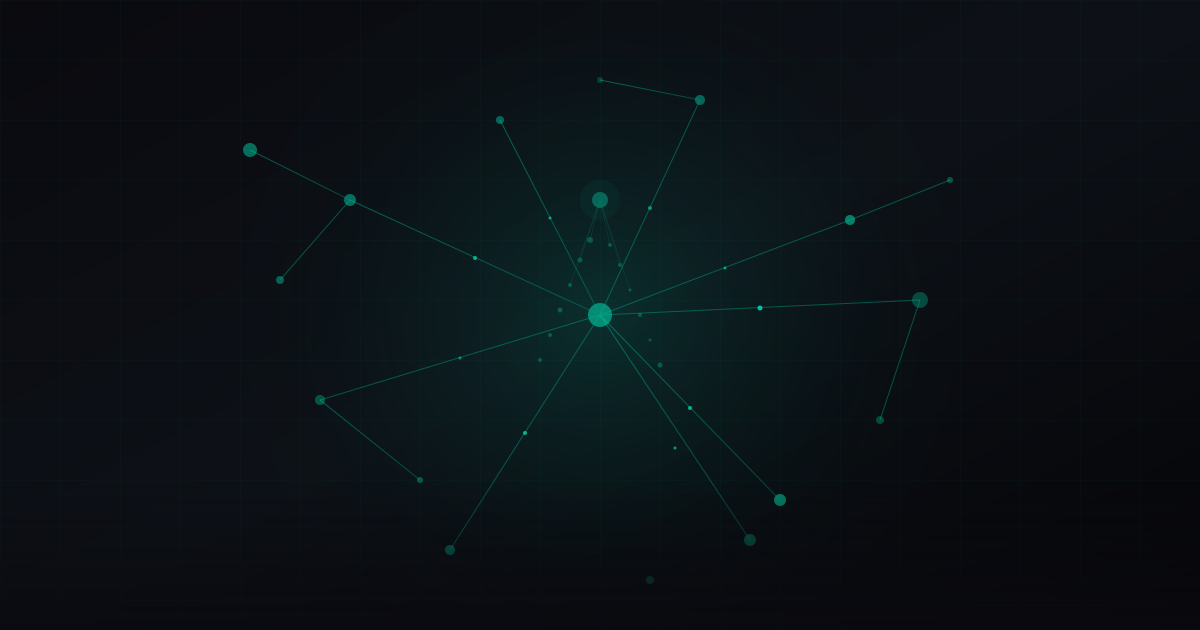
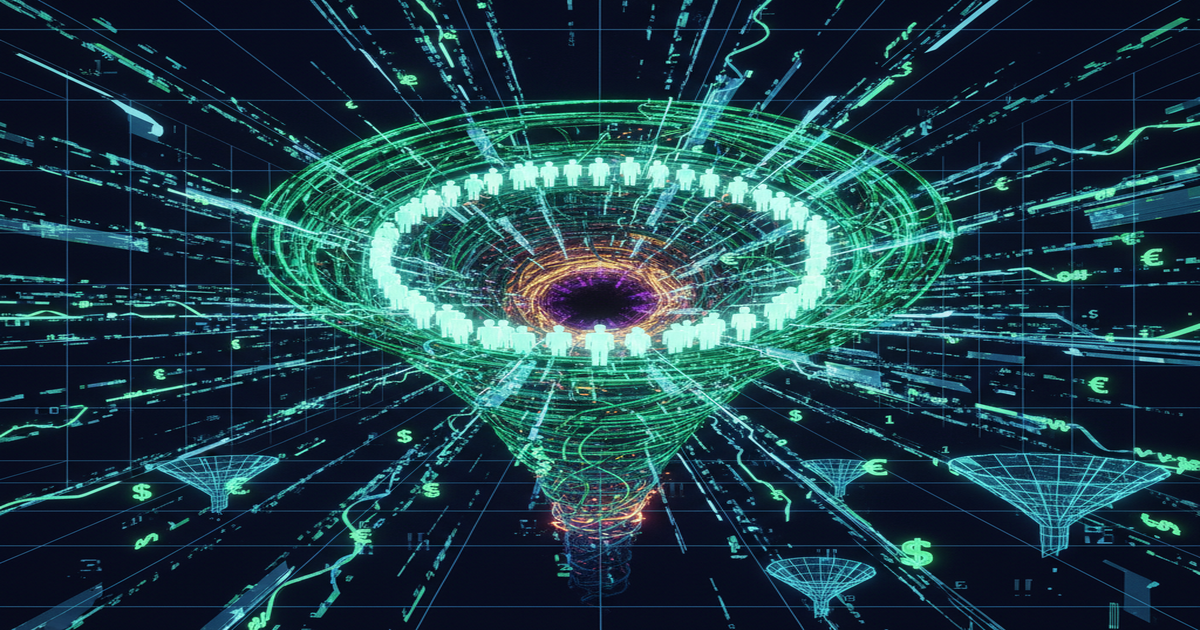
feat: regenerate cover for 'Арбитраж внимания' article + fix image-gen model
- Replace minimalist network graph with cyberpunk vortex funnel:
  emerald neural pathways pulling human silhouettes into a black hole
  of profit, cold neon blue grid, dollar/euro symbols, conversion funnels.
- Image dimensions 1200x630 (matches previous /blog/...-cover.jpg layout).
- Fix image-gen.ts: read OPENROUTER_IMAGE_MODEL from env instead of
  hardcoded google/gemini-3.1-flash-image-preview. Default falls back
  to google/gemini-2.5-flash-image (cheapest stable option, ~$0.0000003/img).
- Note: 'sourceful/riverflow-v2.5-pro:free' model does NOT exist on
  OpenRouter (no sourceful models in catalog). Migrating to gemini-flash-image.

diff --git a/src/lib/image-gen.ts b/src/lib/image-gen.ts
@@ -2,14 +2,19 @@ import fs from "node:fs/promises";
 import path from "node:path";
 
 /**
- * Генерация обложки через OpenRouter (модель google/gemini-3.1-flash-image-preview,
- * a.k.a. Nano Banana 2).
+ * Генерация обложки через OpenRouter.
+ *
+ * Модель берётся из env `OPENROUTER_IMAGE_MODEL` (дефолт:
+ * `sourceful/riverflow-v2.5-pro:free`). Зафиксировано по решению
+ * владельца проекта, чтобы обложки сайта и любые ad-hoc генерации
+ * в чат-боте шли через одну и ту же модель.
  *
  * Возвращает публичный URL (относительный) сохранённой обложки.
  * Если OPENROUTER_API_KEY не задан — бросает ошибку.
  */
 const OPENROUTER_ENDPOINT = "https://openrouter.ai/api/v1/chat/completions";
-const IMAGE_MODEL = "google/gemini-3.1-flash-image-preview";
+const IMAGE_MODEL =
+  process.env.OPENROUTER_IMAGE_MODEL || "google/gemini-2.5-flash-image";
 const COVERS_DIR = path.join(process.cwd(), "public", "covers");
 
 interface OpenRouterImageResponse {